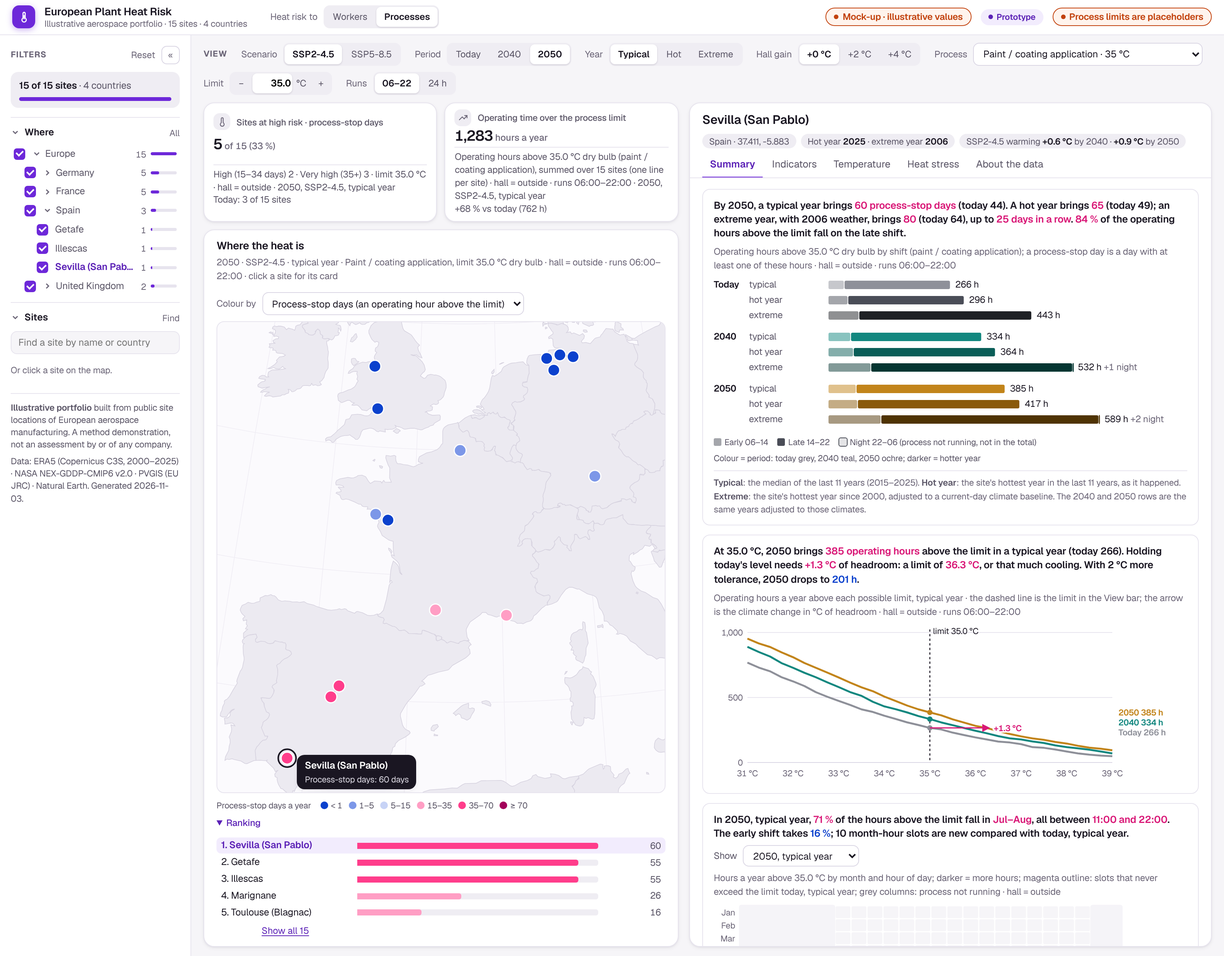
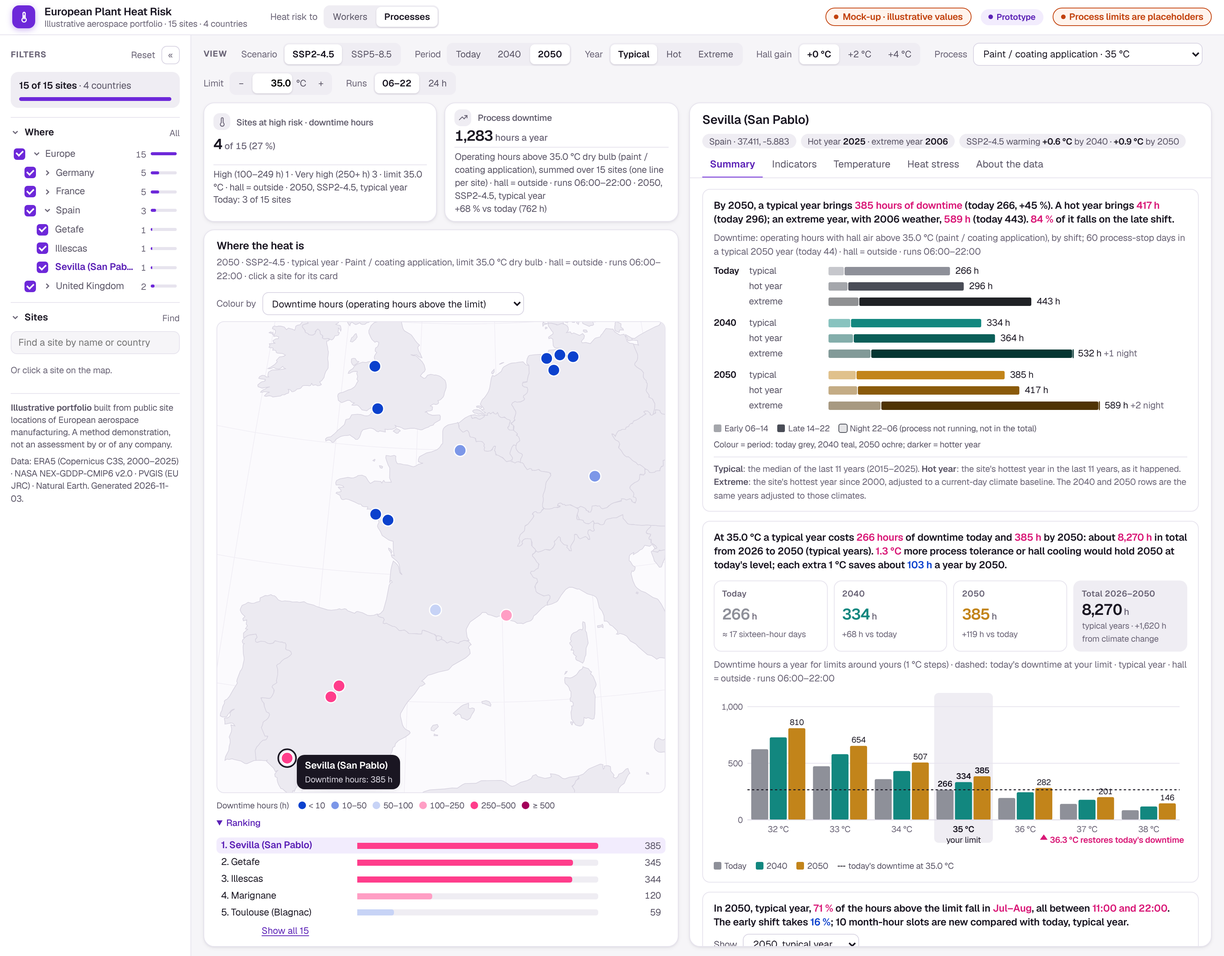
Process lens v2: downtime hours lead; downtime card with bridge and ladder
Card 1 and the KPI tiles now speak hours of downtime (stop days move to
the sub-line and the map options). Card 2 replaces the exceedance curve
with a downtime callout strip (today / 2040 / 2050 and the 2026-2050
total over typical years) and a downtime bridge (recommended) or limit
ladder. Month x hour grid unchanged. Plan updated.

Claude-Session: https://claude.ai/code/session_01UAW58aPu4kaeQs95jbumYH

diff --git a/docs/mockups/process_lens/process_lens.js b/docs/mockups/process_lens/process_lens.js
@@ -24,7 +24,7 @@ const PRESETS = {
   custom: { label: "Custom process", lim: null },
 };
 const qs = new URLSearchParams(location.search);
-const P = { on: qs.get("lens") !== "work", proc: "paint", lim: 35, run: qs.get("run") === "24" ? "24" : "op", alt: qs.get("alt") === "1" };
+const P = { on: qs.get("lens") !== "work", proc: "paint", lim: 35, run: qs.get("run") === "24" ? "24" : "op", alt: qs.get("alt") === "1", v: ["ladder", "bridge", "curve"].includes(qs.get("v")) ? qs.get("v") : "ladder" };
 const thr = () => P.lim - Number(S.hall);
 const procName = () => P.proc === "custom" ? "custom limit" : PRESETS[P.proc].label;
 const runText = () => P.run === "op" ? `runs ${DATA.meta.operating_hours.start}–${DATA.meta.operating_hours.end}` : "runs 24 h";
@@ -74,6 +74,14 @@ document.head.insertAdjacentHTML("beforeend", `<style>
   .proc-off .pl { display: none !important; } .proc-on .wk { display: none !important; }
   .sc svg .lim { stroke: var(--ink); stroke-width: 1.25; stroke-dasharray: 3 3; }
   .sc svg .eq { stroke: #D91877; stroke-width: 1.5; }
+  .dtstrip { display: grid; grid-template-columns: repeat(4, minmax(0, 1fr)); gap: 8px; margin: 4px 0 2px; }
+  .dtstrip .dt { border: 1px solid var(--line); border-radius: 10px; padding: 8px 10px; display: grid; gap: 1px; }
+  .dtstrip .dt.dk { background: var(--bg-2); border-color: transparent; }
+  .dtstrip .l { font-size: var(--fs-11); color: var(--ink-3); font-weight: 600; letter-spacing: .02em; }
+  .dtstrip .v { font-size: 20px; font-weight: 600; letter-spacing: -.02em; font-variant-numeric: tabular-nums; line-height: 1.2; }
+  .dtstrip .v small { font-size: var(--fs-12); color: var(--ink-3); font-weight: 500; }
+  .dtstrip .s { font-size: var(--fs-11); color: var(--ink-3); }
+  @media (max-width: 700px) { .dtstrip { grid-template-columns: repeat(2, minmax(0, 1fr)); } }
   .sc svg text.eqt { fill: #D91877; font-weight: 600; }
 </style>`);
 expoG.classList.add("wk"); profG.classList.add("wk");
@@ -86,13 +94,13 @@ function syncControls() {
   if (P.on) { $("#hallgrp").style.opacity = 1; for (const b of $$("#ctl-hall button")) b.disabled = false; }
   const sel = $("#ctl-layer");
   sel.innerHTML = (P.on ? PROC_OPTS : WORK_OPTS);
-  if (![...sel.options].some(o => o.value === S.layer)) S.layer = P.on ? "proc_days" : "worker_days";
+  if (![...sel.options].some(o => o.value === S.layer)) S.layer = P.on ? "proc_hours" : "worker_days";
   sel.value = S.layer;
 }
 const WORK_OPTS = $("#ctl-layer").innerHTML;
-const PROC_OPTS = `<option value="proc_days">Process-stop days (an operating hour above the limit)</option>
-  <option value="proc_hours">Operating hours above the limit</option>
-  <option value="d_proc_days">Extra process-stop days vs today (2040 / 2050)</option>
+const PROC_OPTS = `<option value="proc_hours">Downtime hours (operating hours above the limit)</option>
+  <option value="d_proc_hours">Extra downtime hours vs today (2040 / 2050)</option>
+  <option value="proc_days">Process-stop days (an operating hour above the limit)</option>
   <option value="days_tmax_gt30">Days above 30 °C</option>
   <option value="warming">Warming in annual mean temperature (2040 / 2050)</option>`;
 const setLim = v => { P.lim = Math.min(45, Math.max(20, Math.round(v * 2) / 2)); };
@@ -105,13 +113,15 @@ $("#ctl-lim").addEventListener("change", e => { setLim(Number(e.target.value)); 
 /* ---------- map layers ---------- */
 Object.assign(LAYER, {
   proc_days: { unit: "days", d: 0, short: "Process-stop days", breaks: [1, 5, 15, 35, 70] },
-  proc_hours: { unit: "h", d: 0, short: "Operating hours above the limit", breaks: [10, 50, 150, 400, 800] },
+  proc_hours: { unit: "h", d: 0, short: "Downtime hours", breaks: [10, 50, 100, 250, 500] },
+  d_proc_hours: { unit: "h", d: 0, plus: true, short: "Extra downtime hours", breaks: [10, 25, 50, 100, 200] },
   d_proc_days: { unit: "days", d: 0, plus: true, short: "Extra process-stop days", breaks: [2, 5, 10, 20, 40] },
 });
 const _layerVal = layerVal;
 layerVal = function (site, period = S.period, scen = S.scen) {
   if (S.layer === "proc_days") return stats(site, varKey(period)).days;
   if (S.layer === "proc_hours") return stats(site, varKey(period)).hours;
+  if (S.layer === "d_proc_hours") return period === "hist" ? null : stats(site, varKey(period)).hours - stats(site, varKey("hist")).hours;
   if (S.layer === "d_proc_days") return period === "hist" ? null : stats(site, varKey(period)).days - stats(site, varKey("hist")).days;
   return _layerVal(site, period, scen);
 };
@@ -129,14 +139,14 @@ renderStrip = function () {
   if (!P.on) return _renderStrip();
   const v = inView(), n = v.length, k = varKey(), k0 = varKey("hist", S.yt);
   const per = `${S.period === "hist" ? "today" : `${S.period}, ${SCEN[S.scen]}`}, ${S.yt} year`;
-  const HIGH = 15, VHIGH = 35, d = (s, key) => stats(s.id, key).days;
+  const HIGH = 100, VHIGH = 250, d = (s, key) => stats(s.id, key).hours;   /* placeholder bands, hours a year */
   const nHigh = v.filter(s => d(s, k) >= HIGH && d(s, k) < VHIGH).length, nVHigh = v.filter(s => d(s, k) >= VHIGH).length, nToday = v.filter(s => d(s, k0) >= HIGH).length;
   const hNow = v.reduce((a, s) => a + stats(s.id, k).hours, 0), hToday = v.reduce((a, s) => a + stats(s.id, k0).hours, 0), dPct = hToday > 0 ? 100 * (hNow - hToday) / hToday : null;
   const tile = (ic, lab, val, foot) => `<div class="kstat"><div class="lab"><span class="ic">${ICON[ic]}</span>${lab}</div><div class="val">${val}</div><div class="foot">${foot}</div></div>`;
   $("#kstrip").innerHTML =
-    tile("therm", "Sites at high risk · process-stop days", `${nHigh + nVHigh}<small>of ${n}${n ? ` (${fmt(100 * (nHigh + nVHigh) / n)} %)` : ""}</small>`,
-      `High (15–34 days) ${nHigh} · Very high (35+) ${nVHigh} · limit ${limText()} · ${hallText()} · ${per}${S.period !== "hist" ? `<br>Today: ${nToday} of ${n} sites` : ""}`) +
-    tile("up", "Operating time over the process limit", `${fmt(hNow)}<small>hours a year</small>`,
+    tile("therm", "Sites at high risk · downtime hours", `${nHigh + nVHigh}<small>of ${n}${n ? ` (${fmt(100 * (nHigh + nVHigh) / n)} %)` : ""}</small>`,
+      `High (100–249 h) ${nHigh} · Very high (250+ h) ${nVHigh} · limit ${limText()} · ${hallText()} · ${per}${S.period !== "hist" ? `<br>Today: ${nToday} of ${n} sites` : ""}`) +
+    tile("up", "Process downtime", `${fmt(hNow)}<small>hours a year</small>`,
       `Operating hours above ${limText()} dry bulb (${procName().toLowerCase()}), summed over ${n} ${n === 1 ? "site" : "sites"} (one line per site) · ${hallText()} · ${runText()} · ${per}${S.period !== "hist" && dPct != null ? `<br>${sgn(dPct)} % vs today (${fmt(hToday)} h)` : ""}`);
 };
 
@@ -144,7 +154,7 @@ renderStrip = function () {
 const _renderStory = renderStory;
 renderStory = function () {
   if (!P.on) return _renderStory();
-  return `<div class="story">${card1()}${P.alt ? altSpells() + altCooling() : sensitivity() + whenGrid()}</div>
+  return `<div class="story">${card1()}${P.alt ? altSpells() + altCooling() : (P.v === "curve" ? sensitivity() : downtime()) + whenGrid()}</div>
     <p class="note">${SCEN[S.scen]} · ${runText()} local · limit applies to hall air (${hallText()}) · <b>Mock-up:</b> values from single weather years (typical meteorological year, hot and extreme years), futures shifted by the median month × hour change; the build uses the ${NY}-year statistics and model ranges.</p>`;
 };
 const YC = { early: 0.5, late: 1, night: 0.15 };
@@ -153,7 +163,7 @@ function card1() {
   const rows = YRS.map(y => { const st = stats(id, y.key); return { ...y, st, early: st.early, late: st.late, night: st.night, tot: st.hours }; });
   const gw = 46, lw = 150, rh = 20, gap = 8, bh = 11, W = Math.max(80, W0 - lw - 112);
   const mx = Math.max(...rows.map(r => r.tot + (op ? r.night : 0)), 1), yOf = i => i * rh + Math.floor(i / 3) * gap;
-  let o = `<svg class="chart" width="${W0}" viewBox="0 0 ${W0} ${yOf(8) + rh}" style="max-width:${W0}px" role="img" aria-label="Operating hours above the process limit by shift">`;
+  let o = `<svg class="chart" width="${W0}" viewBox="0 0 ${W0} ${yOf(8) + rh}" style="max-width:${W0}px" role="img" aria-label="Downtime hours by shift">`;
   rows.forEach((r, i) => {
     const y = yOf(i); let x = lw;
     if (i % 3 === 0) o += `<text class="grp" x="0" y="${y + 14}">${r.grp}</text>`;
@@ -173,13 +183,103 @@ function card1() {
   const latePct = rF.tot ? Math.round(100 * rF.late / rF.tot) : 0;
   const none = Math.max(...rows.map(r => r.tot)) < 0.5;
   const head = none ? `<i>No operating hour goes above ${limText()}</i> today or by 2050, even in a hot or extreme year (${hallText()}).${S.hall !== "4" ? " A larger hall heat gain (View bar) shows how sensitive this is." : ""}`
-    : `By ${per}, a typical year brings <b>${plural(tF, "process-stop day", "process-stop days")}</b> (today ${fmt(tN)}). A hot year brings <b>${fmt(hF)}</b> (today ${fmt(hN)}); an extreme year, with ${s.extreme_year} weather, brings <b>${fmt(xFs.days)}</b> (today ${fmt(xN)})${xFs.longest >= 2 ? `, up to <b>${fmt(xFs.longest)} days in a row</b>` : ""}. ${rF.tot >= 0.5 ? `<b>${latePct} %</b> of the operating hours above the limit fall on the late shift.` : ""}`;
+    : `By ${per}, a typical year brings <b>${fmt(rF.tot)} hours of downtime</b> (today ${fmt(g("hist").hours)}${g("hist").hours >= 50 ? `, ${sgn(100 * (rF.tot - g("hist").hours) / g("hist").hours)} %` : ""}). A hot year brings <b>${fmt(g(`hot_${sc}_${per}`).hours)} h</b> (today ${fmt(g("hotref").hours)}); an extreme year, with ${s.extreme_year} weather, <b>${fmt(xFs.hours)} h</b> (today ${fmt(g("extref").hours)}). ${rF.tot >= 0.5 ? `<b>${latePct} %</b> of it falls on the late shift.` : ""}`;
   return `<div class="sc"><div class="t">${head}</div>
-    <div class="sub">Operating hours above ${limText()} dry bulb by shift (${esc(procName().toLowerCase())}); a process-stop day is a day with at least one of these hours · ${hallText()} · ${runText()}</div>${o}${keys}
+    <div class="sub">Downtime: operating hours with hall air above ${limText()} (${esc(procName().toLowerCase())}), by shift; ${fmt(tF)} process-stop days in a typical ${per} year (today ${fmt(tN)}) · ${hallText()} · ${runText()}</div>${o}${keys}
     <div class="fn"><b>Typical</b>: the median of the last ${NY} years (${B0}–${B1}). <b>Hot year</b>: the site's hottest year in the last ${NY} years, as it happened. <b>Extreme</b>: the site's hottest year since ${E0}, adjusted to a current-day climate baseline. The 2040 and 2050 rows are the same years adjusted to those climates.</div></div>`;
 }
 
-/* Recommended card 2: how much headroom the limit has (exceedance curve) */
+/* Card 2: downtime at the limit, how climate change adds to it and what extra tolerance or cooling buys back.
+   Callout strip (annual and cumulative downtime) + one of two visuals: "ladder" (grouped columns per limit) or
+   "bridge" (waterfall: today -> climate -> 2050 -> each extra degree). */
+const OK = "#12805F";   /* PDE status green: hours bought back */
+function dtCtx() {
+  const id = S.site, yt = S.yt, per = futPer();
+  const ser = [["hist", "Today"], ["2040", "2040"], ["2050", "2050"]].map(([p, name], i) => {
+    const key = varKey(p, yt), y = storyYears().find(o => o.key === key);
+    return { key, name, color: y.color, st: stats(id, key) };
+  });
+  const at = (i, L = P.lim) => above(ser[i].st, L);
+  /* cumulative 2026-2050: linear between today (centre 2020), 2040 and 2050 */
+  const ty = ["hist", "2040", "2050"].map(p => above(stats(id, varKey(p, "typical")), P.lim));
+  const [h0, h1, h2] = ty, yr = y => y <= 2040 ? h0 + (h1 - h0) * (y - 2020) / 20 : h1 + (h2 - h1) * (y - 2040) / 10;
+  let cum = 0; for (let y = 2026; y <= 2050; y++) cum += yr(y);
+  const f = ser.find(s => s.name === per);
+  /* headroom compares like with like: the future year against today for the Year in the View bar */
+  const s0 = at(0); let eq = null; if (s0 > 0 && above(f.st, P.lim) > s0) for (let x = P.lim; x <= P.lim + 15; x += 0.1) if (above(f.st, x) <= s0) { eq = x; break; }
+  return { ser, at, cum, cumToday: h0 * 25, typ: ty, per, f, eq, ytn: { typical: "typical year", hot: "hot year", extreme: "extreme year" }[yt] };
+}
+function dtStrip(c) {
+  const tile = (lab, val, sub, color, dark) => `<div class="dt${dark ? " dk" : ""}"><span class="l">${lab}</span><span class="v" style="${color ? `color:${color}` : ""}">${val}<small> h</small></span><span class="s">${sub}</span></div>`;
+  const [a, b, d] = c.ser.map((_, i) => c.at(i)), dd = days => `≈ ${fmt(days / 16)} sixteen-hour days`;
+  return `<div class="dtstrip">${tile("Today", fmt(a), dd(a), c.ser[0].color)}${tile("2040", fmt(b), `${sgn(b - a)} h vs today`, c.ser[1].color)}${tile("2050", fmt(d), `${sgn(d - a)} h vs today`, c.ser[2].color)}
+    ${tile("Total 2026–2050", fmt(Math.round(c.cum / 10) * 10), `typical years · ${sgn(Math.round((c.cum - c.cumToday) / 10) * 10)} h from climate change`, null, true)}</div>`;
+}
+function downtime() {
+  const c = dtCtx(), W0 = paneW(30), fAt = above(c.f.st, P.lim), today = c.at(0), p1 = above(c.f.st, P.lim + 1), p2 = above(c.f.st, P.lim + 2);
+  const head = fAt < 0.5 ? `No downtime at ${limText()}, even in a ${c.per} ${c.ytn}: the hottest operating hour is <i>${fmt(c.f.st.mx, 1)} °C</i>.`
+    : `At ${limText()} ${c.ytn === "extreme year" ? "an" : "a"} ${c.ytn} costs <b>${fmt(today)} hours</b> of downtime today and <b>${fmt(fAt)} h</b> by ${c.per}: about <b>${fmt(Math.round(c.cum / 10) * 10)} h</b> in total from 2026 to 2050 (typical years). ${c.eq != null ? `<b>${fmt(c.eq - P.lim, 1)} °C</b> more process tolerance or hall cooling would hold ${c.per} at today's level; ` : ""}each extra 1 °C saves about <i>${fmt(fAt - p1)} h</i> a year by ${c.per}.`;
+  const vis = P.v === "bridge" ? bridge(c, W0) : ladder(c, W0);
+  const sub = P.v === "bridge" ? `How the ${c.per} downtime builds up from today, and what each extra °C of process tolerance or hall cooling buys back · ${c.ytn}`
+    : `Downtime hours a year for limits around yours (1 °C steps) · dashed: today's downtime at your limit · ${c.ytn}`;
+  return `<div class="sc"><div class="t">${head}</div>${dtStrip(c)}<div class="sub">${sub} · ${hallText()} · ${runText()}</div>${vis}</div>`;
+}
+function ladder(c, W0) {
+  const H = 210, m = { l: 44, r: 8, t: 22, b: 40 }, Ls = [-3, -2, -1, 0, 1, 2, 3].map(d => P.lim + d), gw = (W0 - m.l - m.r) / Ls.length, bw = Math.min(26, (gw - 14) / 3);
+  const vals = Ls.map(L => c.ser.map((_, i) => c.at(i, L))), hi0 = Math.max(1, ...vals.flat()), st = niceStep(hi0 / 4), hi = Math.ceil(hi0 / st) * st;
+  const Y = v => m.t + (H - m.t - m.b) * (1 - v / hi), gx = j => m.l + j * gw;
+  let o = `<svg class="chart" width="${W0}" viewBox="0 0 ${W0} ${H}" style="max-width:${W0}px" role="img" aria-label="Downtime hours for limits around the chosen one">`;
+  o += `<rect x="${gx(3) + 2}" y="${m.t - 18}" width="${gw - 4}" height="${H - m.t - m.b + 18 + 30}" rx="6" fill="var(--bg-2)"/>`;
+  for (let v = 0; v <= hi + 1e-9; v += st) o += `<line class="gridl" x1="${m.l}" x2="${W0 - m.r}" y1="${Y(v)}" y2="${Y(v)}"/><text x="${m.l - 6}" y="${Y(v) + 4}" text-anchor="end">${fmt(v)}</text>`;
+  vals.forEach((vs, j) => {
+    const x0 = gx(j) + (gw - 3 * bw - 4) / 2;
+    vs.forEach((v, i) => { const x = x0 + i * (bw + 2); o += `<rect x="${x}" y="${Y(v)}" width="${bw}" height="${Math.max(Y(0) - Y(v), v ? 1 : 0)}" rx="2" fill="${c.ser[i].color}" data-t="Limit ${fmt(Ls[j], 1)} °C<br>${c.ser[i].name}: ${fmt(v)} h a year"/>`;
+      if (j === 3 || i === 2) o += `<text class="val" x="${x + bw / 2}" y="${Y(v) - 4}" text-anchor="middle" style="font-size:10.5px${j === 3 ? ";font-weight:600" : ""}">${fmt(v)}</text>`; });
+    o += `<text x="${gx(j) + gw / 2}" y="${H - m.b + 16}" text-anchor="middle" style="${j === 3 ? "fill:var(--ink);font-weight:600" : ""}">${fmt(Ls[j], 0)} °C</text>`;
+  });
+  o += `<text x="${gx(3) + gw / 2}" y="${H - m.b + 30}" text-anchor="middle" style="fill:var(--ink)">your limit</text>`;
+  o += `<line class="axis" x1="${m.l}" x2="${W0 - m.r}" y1="${Y(0)}" y2="${Y(0)}"/>`;
+  const t0 = c.at(0);
+  if (t0 > 0) {
+    o += `<line class="lim" x1="${m.l}" x2="${W0 - m.r}" y1="${Y(t0)}" y2="${Y(t0)}"/>`;
+    if (c.eq != null && c.eq <= Ls[6] + 0.5) {
+      const ex = gx(3) + gw / 2 + (c.eq - P.lim) * gw;
+      o += `<path d="M${ex - 5},${Y(0) + 26} L${ex + 5},${Y(0) + 26} L${ex},${Y(0) + 19} Z" fill="#D91877"/><text class="eqt halo" x="${ex + 8}" y="${Y(0) + 30}">${fmt(c.eq, 1)} °C restores today's downtime</text>`;
+    }
+  }
+  o += `</svg>`;
+  return o + `<div class="keys">${c.ser.map(s => `<span><i style="background:${s.color}"></i>${s.name}</span>`).join("")}<span><i style="background:none;border-top:1.5px dashed var(--ink);height:0;border-radius:0;vertical-align:3px"></i>today's downtime at ${limText()}</span></div>`;
+}
+function bridge(c, W0) {
+  const a = c.at(0), b = c.at(1), d = c.at(2), f1 = above(c.ser[2].st, P.lim + 1), f2 = above(c.ser[2].st, P.lim + 2), f3 = above(c.ser[2].st, P.lim + 3);
+  const steps = [
+    { lab: ["Today", ""], kind: "tot", v: a, color: c.ser[0].color },
+    { lab: ["Climate", "to 2040"], kind: "up", from: a, to: b, color: c.ser[1].color },
+    { lab: ["Climate", "to 2050"], kind: "up", from: b, to: d, color: c.ser[2].color },
+    { lab: ["2050", ""], kind: "tot", v: d, color: c.ser[2].color },
+    { lab: ["+1 °C", "tolerance"], kind: "down", from: d, to: f1 },
+    { lab: ["+2 °C", ""], kind: "down", from: f1, to: f2 },
+    { lab: ["+3 °C", ""], kind: "down", from: f2, to: f3 },
+    { lab: ["2050 with", "+3 °C"], kind: "tot", v: f3, color: c.ser[2].color, light: true }];
+  const H = 220, m = { l: 44, r: 8, t: 18, b: 40 }, n = steps.length, cw = (W0 - m.l - m.r) / n, bw = Math.min(44, cw - 18);
+  const hi0 = Math.max(1, a, b, d), st = niceStep(hi0 / 4), hi = Math.ceil(hi0 / st) * st, Y = v => m.t + (H - m.t - m.b) * (1 - v / hi);
+  let o = `<svg class="chart" width="${W0}" viewBox="0 0 ${W0} ${H}" style="max-width:${W0}px" role="img" aria-label="Downtime bridge from today to 2050 and back with extra tolerance">`;
+  for (let v = 0; v <= hi + 1e-9; v += st) o += `<line class="gridl" x1="${m.l}" x2="${W0 - m.r}" y1="${Y(v)}" y2="${Y(v)}"/><text x="${m.l - 6}" y="${Y(v) + 4}" text-anchor="end">${fmt(v)}</text>`;
+  steps.forEach((s, i) => {
+    const cx = m.l + i * cw + cw / 2, x = cx - bw / 2;
+    let top, bot, fill, op = 1, lbl;
+    if (s.kind === "tot") { top = s.v; bot = 0; fill = s.color; op = s.light ? 0.45 : 1; lbl = fmt(s.v); }
+    else { top = Math.max(s.from, s.to); bot = Math.min(s.from, s.to); fill = s.kind === "up" ? s.color : OK; op = s.kind === "up" ? 0.55 : 0.85; lbl = sgn(s.to - s.from); }
+    o += `<rect x="${x}" y="${Y(top)}" width="${bw}" height="${Math.max(Y(bot) - Y(top), 1)}" rx="2" fill="${fill}" fill-opacity="${op}" ${s.kind === "up" ? `stroke="${s.color}" stroke-dasharray="3 2"` : ""}/>`;
+    o += `<text class="val" x="${cx}" y="${Y(top) - 5}" text-anchor="middle" style="font-weight:600;${s.kind === "down" ? `fill:${OK}` : ""}">${lbl}</text>`;
+    if (i < n - 1) { const nv = s.kind === "tot" ? s.v : s.to; o += `<line x1="${x + bw}" x2="${x + cw}" y1="${Y(nv)}" y2="${Y(nv)}" stroke="var(--line-2)" stroke-dasharray="2 2"/>`; }
+    o += `<text x="${cx}" y="${H - m.b + 16}" text-anchor="middle" style="fill:var(--ink-2)">${s.lab[0]}</text>${s.lab[1] ? `<text x="${cx}" y="${H - m.b + 29}" text-anchor="middle" style="fill:var(--ink-2)">${s.lab[1]}</text>` : ""}`;
+  });
+  o += `<line class="axis" x1="${m.l}" x2="${W0 - m.r}" y1="${Y(0)}" y2="${Y(0)}"/></svg>`;
+  return o + `<div class="keys"><span><i style="background:rgba(74,77,87,.55);outline:1px dashed #4A4D57"></i>added by climate change</span><span><i style="background:${OK}"></i>bought back by extra process tolerance or hall cooling, per °C</span></div>`;
+}
+
+/* Previous card 2: exceedance curve (kept for comparison, ?v=curve) */
 function sensitivity() {
   const id = S.site, sc = S.scen, per = futPer(), yt = S.yt, W0 = paneW(30), H = 210, m = { l: 44, r: 96, t: 12, b: 28 };
   const ser = [{ key: varKey("hist", yt), name: "Today", color: yt === "typical" ? "var(--c-today)" : yt === "hot" ? "var(--c-hot)" : "var(--c-ext)" },

diff --git a/docs/process_lens_plan.md b/docs/process_lens_plan.md
@@ -1,15 +1,16 @@
-# Process-limit lens: plan and mock-up (draft, Nov 2026)
+# Process-limit lens: plan and mock-up (draft v2, Nov 2026)
 
-A second way to read the dashboard: instead of worker heat stress (WBGT against an ISO 7243 reference), the user sets a **dry-bulb process limit** (paint application, sealant, composite layup, chiller rating, anything) and sees the same headline, map, ranking and Summary cards in terms of **hours and days above that limit**. Layout, controls, year colours and the nine-year structure (typical / hot / extreme × today / 2040 / 2050) stay as they are, so the two lenses can be toggled without the page moving.
+A second way to read the dashboard: instead of worker heat stress (WBGT against an ISO 7243 reference), the user sets a **dry-bulb process limit** (paint application, sealant, composite layup, chiller rating, anything) and sees the same headline, map, ranking and Summary cards in terms of **hours of process downtime**: operating hours with hall air above the limit. Hours are the driver throughout, so a later version can attach a value per hour (€ of lost output) without changing the charts. Layout, controls, year colours and the nine-year structure (typical / hot / extreme × today / 2040 / 2050) stay as they are, so the two lenses can be toggled without the page moving.
 
 Renders: `docs/mockups/process_lens/` (built on the current dashboard, D61–D65). Numbers in the renders are illustrative (see "Mock-up caveats").
 
 | Render | Shows |
 |---|---|
 | `01_overview_sevilla.png` | Whole page in the process lens: header toggle, View bar, KPI tiles, map, Summary |
-| `02_summary_recommended_sevilla.png` | Summary tab with the two recommended cards |
-| `03_summary_alternatives_sevilla.png` | The two alternatives considered, in the same slots |
-| `04_summary_recommended_toulouse_extreme.png` | Recommended cards at a temperate site, Year = Extreme |
+| `02_summary_ladder_sevilla.png` | Summary tab, downtime card drawn as a limit ladder |
+| `03_summary_bridge_sevilla.png` | Summary tab, downtime card drawn as a downtime bridge (recommended) |
+| `04_summary_ladder_toulouse_extreme.png` | Ladder at a temperate site, Year = Extreme |
+| `06_summary_bridge_toulouse_extreme.png` | Bridge at a temperate site, Year = Extreme |
 | `05_worker_lens_unchanged.png` | Worker lens after the toggle is added: unchanged apart from the toggle |
 
 ## 1. Controls
@@ -25,12 +26,12 @@ Renders: `docs/mockups/process_lens/` (built on the current dashboard, D61–D65
 
 | Element | Worker lens (now) | Process lens |
 |---|---|---|
-| KPI tile 1 | Sites at high risk · worker heat-safety days | Sites at high risk · **process-stop days** (same 15 / 35-day bands, to confirm) |
-| KPI tile 2 | Working time over the safe limit | **Operating time over the process limit**, hours a year summed over sites, % change vs today |
-| Map "Colour by" | Worker days, days > 30 °C, WBGT degree-hours, extra days > 30 °C, warming | **Process-stop days** (default), **operating hours above the limit**, **extra process-stop days vs today**, days > 30 °C, warming |
-| Summary card 1 | Working hours above WBGT ref by shift, nine years | **Operating hours above the limit by shift, nine years**; headline gives stop days (typical / hot / extreme), longest run and late-shift share. Same chart, same footnote |
-| Summary card 2 | Climate here (UTCI bands) | **Recommended: limit headroom curve** (section 3) |
-| Summary card 3 | Thermal comfort shift (UTCI) | **Recommended: when the limit is exceeded, month × hour** (section 3) |
+| KPI tile 1 | Sites at high risk · worker heat-safety days | Sites at high risk · **downtime hours** (placeholder bands: High 100–249 h, Very high 250+ h a year) |
+| KPI tile 2 | Working time over the safe limit | **Process downtime**, hours a year summed over sites, % change vs today |
+| Map "Colour by" | Worker days, days > 30 °C, WBGT degree-hours, extra days > 30 °C, warming | **Downtime hours** (default), **extra downtime hours vs today**, process-stop days, days > 30 °C, warming |
+| Summary card 1 | Working hours above WBGT ref by shift, nine years | **Downtime hours by shift, nine years**. Headline in hours: typical / hot / extreme, today vs future, late-shift share. Stop days drop to the sub-line. Same chart, same footnote |
+| Summary card 2 | Climate here (UTCI bands) | **Downtime card**: callout strip + downtime bridge (section 3) |
+| Summary card 3 | Thermal comfort shift (UTCI) | **When the limit is exceeded, month × hour** (section 3) |
 | Indicators | Dot timeline, worker / heat / heatwave / comfort groups | Process group replaces the worker group: stop days, operating hours above, longest run, degree-hours above the limit, 1 % design temperature, hottest operating hour. Heat, heatwave and energy groups unchanged |
 | Temperature | Distribution, warming fingerprint, monthly Tmax | Unchanged, plus the limit as a vertical line on the temperature distribution |
 | Heat stress tab | WBGT by shift, UTCI | Renamed **Process** in this lens: hours above the limit by shift (table with model ranges) and the current placeholder process table |
@@ -38,19 +39,22 @@ Renders: `docs/mockups/process_lens/` (built on the current dashboard, D61–D65
 
 **Definitions.** An *operating hour above the limit* is an hour in the running window with hall air above the limit. A *process-stop day* is a day with at least one such hour, matching the worker heat-safety day (D57). Both come from the same 11-year statistics as the worker numbers (median year for typical, 90th percentile for hot, the extreme reference year), with the 6-model median and range.
 
-## 3. Summary cards 2 and 3: options and recommendation
+## 3. Summary cards 2 and 3
 
-The two UTCI cards answer "how comfortable is it here", which has no meaning for a process. Four candidates were drawn; I recommend **A and B**.
+The two UTCI cards answer "how comfortable is it here", which has no meaning for a process. After review (v1 → v2): the line chart's message is kept but redrawn, a downtime callout is added, and the month × hour grid stays.
 
-**A. Limit headroom curve (recommended).** Operating hours above every limit from limit − 4 to limit + 4 °C, one line each for today, 2040 and 2050 (for the Year in the View bar), the chosen limit as a dashed line, and an arrow showing how many °C the limit would have to rise for the future year to match today's hours. Headline example (Sevilla, 35 °C, typical): *2050 brings 385 operating hours above the limit (today 266). Holding today's level needs +1.3 °C of headroom: a limit of 36.3 °C, or that much cooling. With 2 °C more tolerance, 2050 drops to 201 h.*
-Why: process limits are uncertain (placeholders now, spec tolerances of ±1–2 °C later), so a single-threshold answer is fragile. This card makes the result robust to the limit and expresses climate change in °C of lost headroom, the unit a spec change or cooling upgrade is sized in.
+**Card 2: downtime at the limit.** Three parts.
 
-**B. When the limit is exceeded (recommended).** Month × hour-of-day grid of hours above the limit for a chosen year (defaults to the View bar year), in that year's colour; month totals to the right, hour totals beneath, non-running hours greyed, and slots that are new compared with today outlined in magenta. Same layout as the warming fingerprint on the Temperature tab. Headline example: *In 2050, typical year, 71 % of the hours above the limit fall in Jul–Aug, all between 11:00 and 22:00. The early shift takes 16 %; 10 month-hour slots are new.*
-Why: it tells the site whether operational changes (earlier shifts, night running, a summer shutdown window) can absorb the exposure or whether it needs capital (cooling, a higher-spec material). Card 1 gives the shift split but not the season or the hour window.
+1. **Headline** in hours. Sevilla, 35 °C, typical: *a typical year costs 266 hours of downtime today and 385 h by 2050: about 8,270 h in total from 2026 to 2050. 1.3 °C more process tolerance or hall cooling would hold 2050 at today's level; each extra 1 °C saves about 103 h a year by 2050.*
+2. **Callout strip**: downtime a year today / 2040 / 2050 in the year colours, and a darker tile with the **2026–2050 total**. The total always uses typical years: adding up 25 extreme years is not a scenario. Years between the reference points are interpolated linearly (today = 2020, then 2040, then 2050). This is the number a revenue figure will multiply later.
+3. **Visual**, replacing the exceedance curve. Two drawings of the same data:
+   - **Downtime bridge (recommended).** Waterfall: today → added by climate to 2040 → added to 2050 → 2050 total → hours bought back by +1, +2, +3 °C of tolerance or cooling → 2050 with +3 °C. It reads as a ledger of hours: what climate change adds, and what each degree of engineering buys back. That is the shape a revenue or cost-benefit view takes later (hours × €/h on each step).
+   - **Limit ladder (alternative).** Grouped columns of downtime for limits from 3 °C below to 3 °C above yours (today, 2040, 2050 per limit), your limit shaded, today's downtime as a dashed line and a marker where 2050 falls back to it ("36.3 °C restores today's downtime"). Closer to the engineering question "what if the spec were different", but less direct as a ledger.
+   - The v1 curve stays in the mock-up behind `?v=curve` for comparison only.
 
-**C. Stoppage run length (alternative).** Stop days split by the length of the run they belong to (1, 2, 3–4, 5+ days), nine years. Good question (a single day can be rescheduled, a 10-day run cannot), but at hot sites it saturates: Sevilla puts 93–94 % of its 2050 stop days in runs of 3+ days, so the bars are almost all one shade. The longest run is already in card 1's headline. Better as an Indicators row.
+**Card 3: when the limit is exceeded.** Unchanged from v1. Month × hour-of-day grid of downtime hours for a chosen year (defaults to the View bar year), in that year's colour; month totals right, hour totals beneath, non-running hours greyed, slots that are new compared with today outlined in magenta. It shows whether shift times, night running or a summer shutdown can absorb the downtime, or whether it needs capital.
 
-**D. Cooling needed to hold the limit (alternative).** Per year, the 1 % design temperature and the hottest operating hour against the limit, with the cooling gap and degree-hours above the limit. The most engineering-flavoured option, but the hottest hour of one year is noisy, it overlaps with A's headroom arrow, and design conditions belong in a table with model ranges. Recommend these as Indicators rows (1 % design temperature, degree-hours above the limit).
+**Dropped from the Summary** (v1 alternatives): stoppage run length and cooling gap. Both move to Indicators rows (longest run; 1 % design temperature; degree-hours above the limit).
 
 ## 4. Data and build
 
@@ -59,7 +63,7 @@ The headline numbers must come from the multi-year pipeline, so the limit cannot
 1. `config/settings.yaml`: `process_lens: {ladder_c: [20, 46, 0.5], presets: {...}, stop_day_min_hours: 1}`.
 2. `annual.py`: per year, histogram the hall-air dry bulb at 0.5 °C bins for operating hours, all hours and each shift, plus a histogram of each day's maximum (operating and 24 h). Cumulative sums give hours and days above every rung at once (53 rungs, no 53 passes). Hall gain needs no extra data: it is a shift of the rung index. Degree-hours and the longest run per rung come from the same pass. Stored in a separate long table (`outputs/phase1/dbt_ladder.parquet`, `outputs/phase2/dbt_ladder_future.parquet`), not 53 more CSV columns.
 3. Ensemble step: the same median / 90th percentile / extreme-year and model median / min / max as today, per rung. A per-rung median of monotonic curves is still monotonic, so curve A cannot zigzag.
-4. `build_dashboard.py`: ladder arrays into `DATA.kpi[site].proc`, and for card B the reference-year hourly dry bulb (TMY, hot and extreme years and their futures, 6-model median per hour, uint8 at 0.25 °C) as in the mock-up.
+4. `build_dashboard.py`: ladder arrays into `DATA.kpi[site].proc` (the bridge and ladder read limit + 1 / 2 / 3 °C from the same arrays, so they need no extra data), and for card B the reference-year hourly dry bulb (TMY, hot and extreme years and their futures, 6-model median per hour, uint8 at 0.25 °C) as in the mock-up.
 5. Template: the lens state, the three controls, the overrides listed in section 2, and the tests (`tests/dashboard_check.js`: toggle, stepper, presets, 24 h; pytest: ladder at 30 °C equals `hours_t_gt30`, ladder at 35 and 32 °C equal the existing `proc_hours_*` all-hours values, monotonic in the limit).
 
 **Re-run needed.** The ladder needs the hourly weather, which is not in the repository (ERA5 hourly and the future files are gitignored). Implementation therefore re-runs `fetch_era5.py` (the CDS key is set in this environment, as at 3 Nov 2026), `phase1_historical.py --reuse-adjustment` and `phase2_future.py --reuse-deltas`; NEX does not need fetching again. Existing outputs should be unchanged, which doubles as a regression check.
@@ -72,6 +76,8 @@ The renders compute everything in the browser from single weather years: "typica
 
 ## 6. Open points
 
-- **Stop-day definition and bands.** 1 hour above the limit makes a stop day, and High / Very high are 15 / 35 days, mirroring the worker lens. A paint line that can pause for an hour may want "2+ hours" or "any hour in the shift"; this is a setting, not a code change.
+- **Risk bands in hours.** High 100–249 h and Very high 250+ h a year are placeholders; they belong per process (an hour of a paint booth costs less than an hour of an autoclave line).
+- **Revenue link.** A `value_per_hour` per process (€/h, or €/h per site) would turn the strip and bridge into € directly. Expected annual loss should then use the **mean** year, not the median (typical) year, because losses are skewed by hot years; the pipeline can add a mean alongside the median at no extra cost.
+- **Stop days** stay as a secondary measure (1 hour above the limit makes a stop day), shown in card 1's sub-line and on the map.
 - **Humidity limits.** Several real process limits are RH or dew-point margins (paint: RH above 85 %, surface 3 °C above dew point). The ladder approach extends to RH and dew point with the same machinery; out of scope for the dry-bulb version.
 - **Indoor conditions.** As for workers, hall air = outdoor + gain; a conditioned room needs its own design conditions and is not represented.
